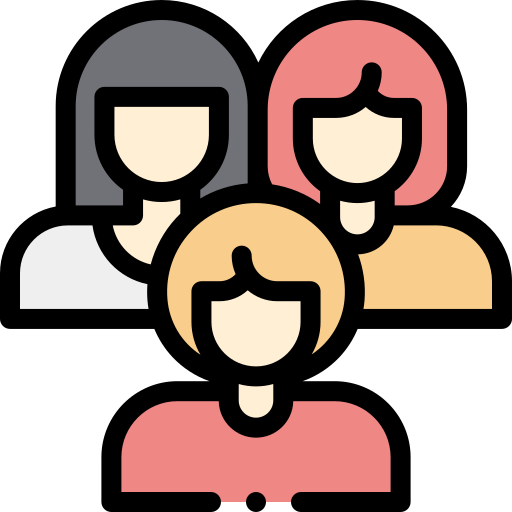
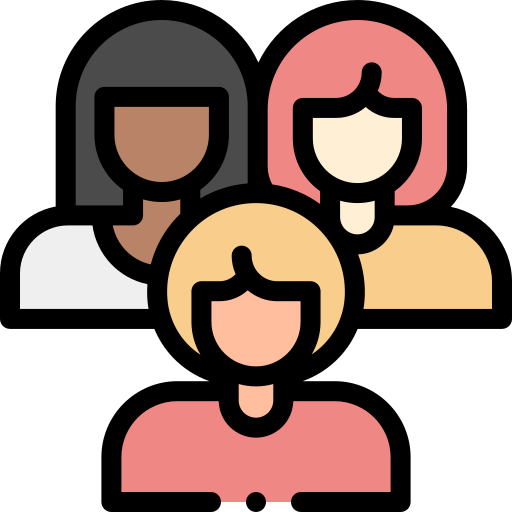
update assets & tweak Practice now modal

Changed region(s): [[0.125, 0.0312, 0.5, 0.5312], [0.4062, 0.5625, 0.5938, 0.7188], [0.4688, 0.75, 0.5312, 0.8125]]

diff --git a/client/components/HomeView/PracticeModal.js b/client/components/HomeView/PracticeModal.js
@@ -209,7 +209,7 @@ const PracticeModal = ({ open, setOpen }) => {
       <Modal.Content style={{ background: 'rgb(230, 235, 233)' }}>
         <div className="flex-col" style={{ gap: '3em' }}>
           <div>
-            <div className="practice-now-modal-label">
+            <div className="practice-now-modal-label" style={{ width: '80%' }}>
               <FormattedMessage id="practice-random-story-from-library" />
             </div>
 
